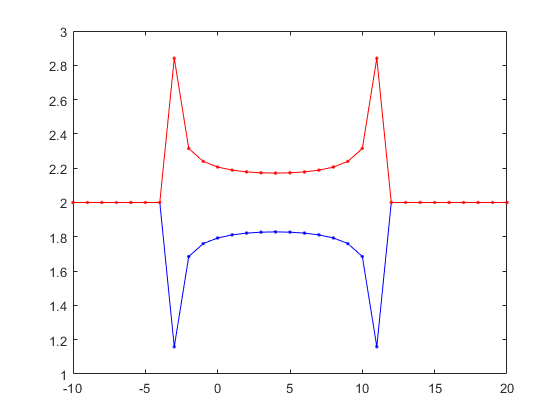
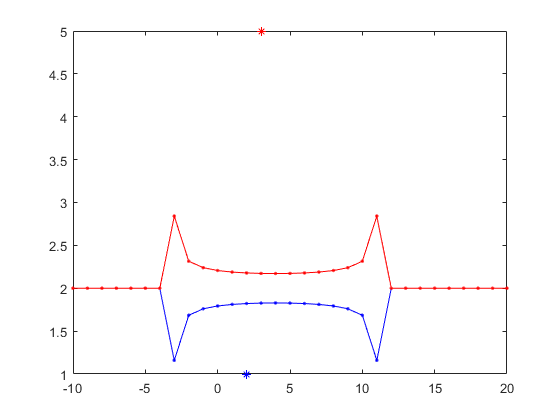
Added mean to plot

diff --git a/Assignment2/Lab5.m b/Assignment2/Lab5.m
@@ -12,10 +12,16 @@ end
 %txt1 = ['x2 = 2+sqrt(4-12*2*(x*x)-16*x+8*-8.8188)/(2*2*(x*x)-16*x+8*-8.8188)'];
 
 figure(1)
-subplot(2,1,1)
+%subplot(2,1,1)
 a = plot(x1, real(y1), 'b.-');
-title("x2 = 2+sqrt(4-12*2*(x*x)-16*x+8*-8.8188)/(2*2*(x*x)-16*x+8*-8.8188)")
+%title("x2 = 2+sqrt(4-12*2*(x*x)-16*x+8*-8.8188)/(2*2*(x*x)-16*x+8*-8.8188)")
 hold on;
-subplot(2,1,2)
+plot(3,5,'r*');
+plot(2,1, 'b*');
+%subplot(2,1,2)
 b = plot(x1, real(y2), 'r.-');
-title("x2 = 2-sqrt(4-12*2*(x*x)-16*x+8*-8.8188)/(2*2*(x*x)-16*x+8*-8.8188)")
+%title("x2 = 2-sqrt(4-12*2*(x*x)-16*x+8*-8.8188)/(2*2*(x*x)-16*x+8*-8.8188)")
+hold on
+plot(3,5,'r*');
+plot(2,1, 'b*');
+
